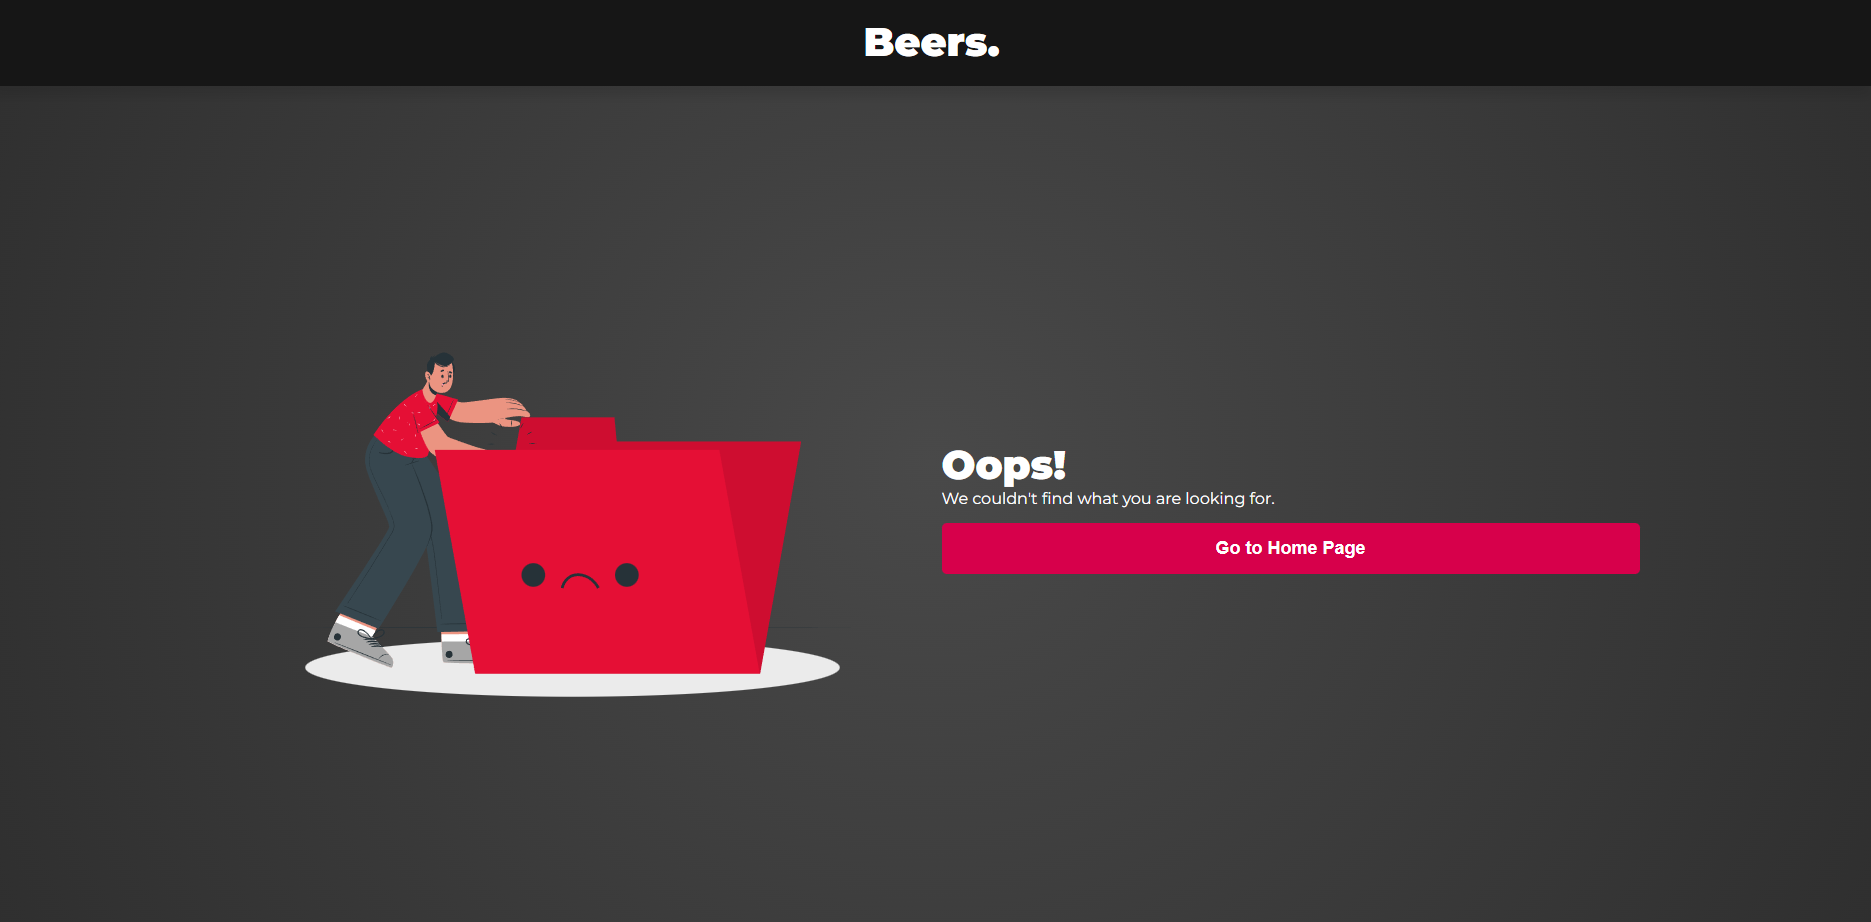
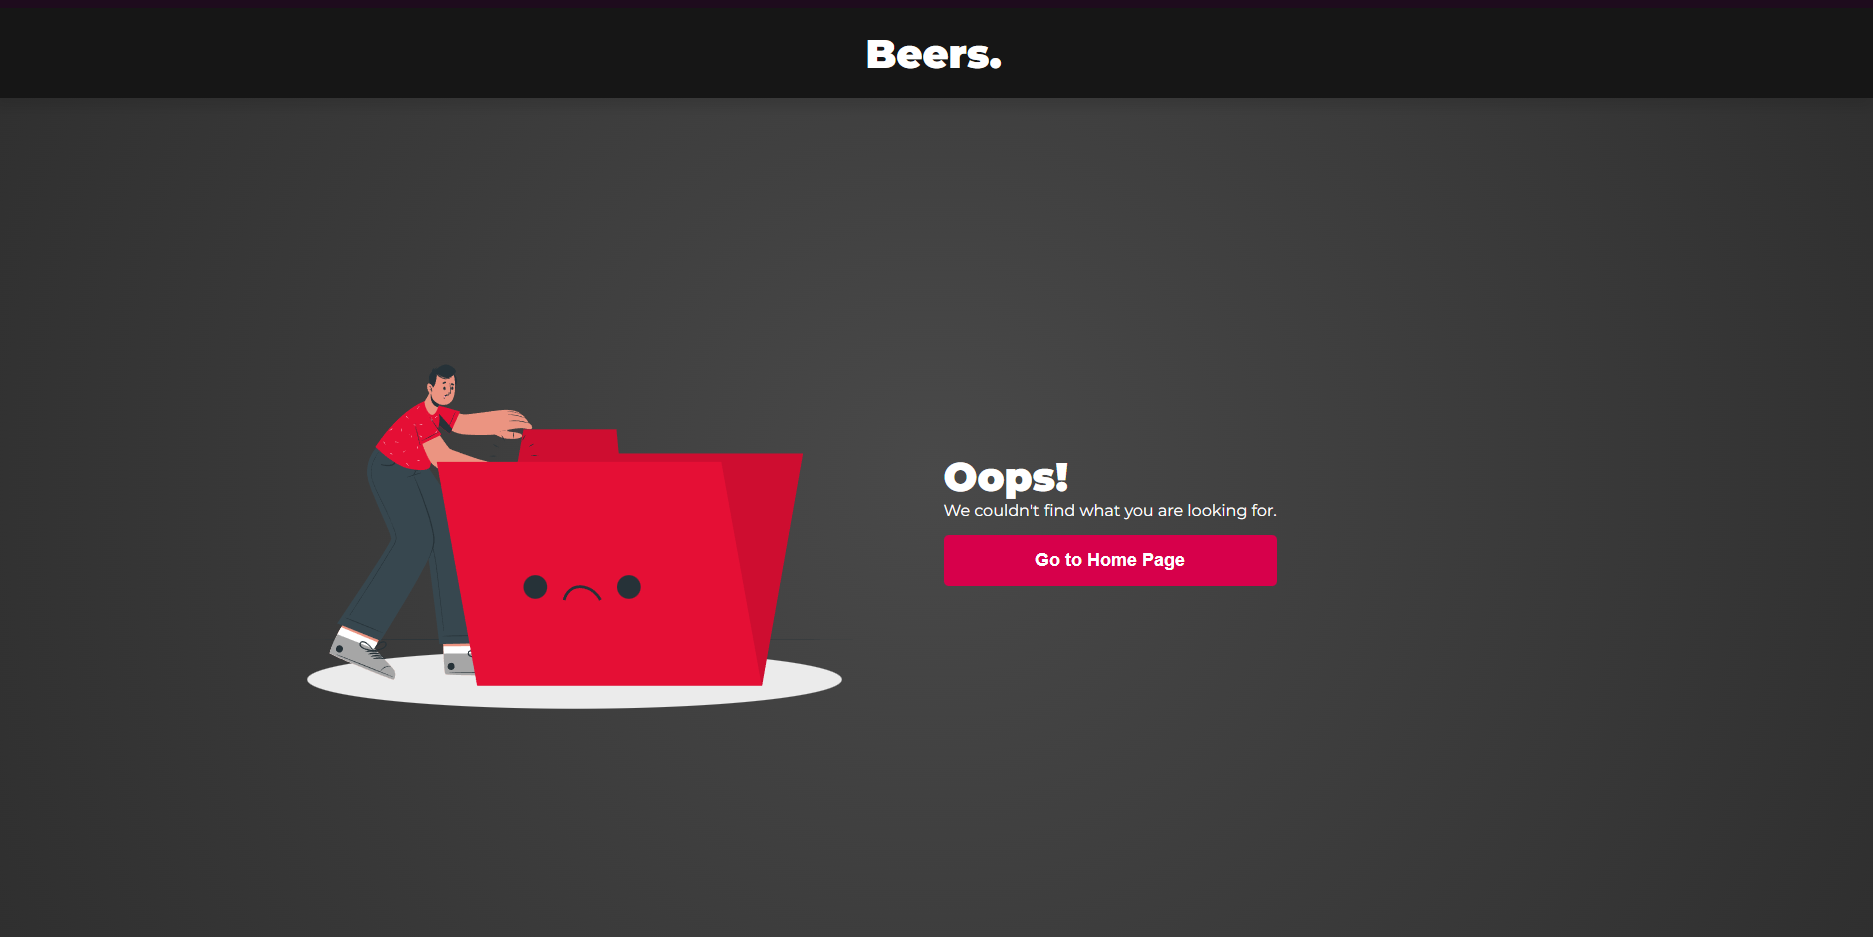
EX-16: Updated error message buttons to be more consistent

diff --git a/src/components/error-message/ErrorMessage.scss b/src/components/error-message/ErrorMessage.scss
@@ -9,6 +9,7 @@
   grid-template-columns: 1fr 1fr;
 
   @media (max-width: $lg-breakpoint) {
+    justify-items: center;
     grid-template-columns: 1fr;
   }
 
@@ -21,26 +22,31 @@
     }
   }
 
-  .error-text {
-    color: $secondary-text-color;
+  .error-message-content {
+    display: flex;
+    flex-direction: column;
+    max-width: fit-content;
 
-    &.error-header {
-      font-weight: 900;
-      font-size: $font-xxl;
+    .error-text {
+      color: $secondary-text-color;
+
+      &.error-header {
+        font-weight: 900;
+        font-size: $font-xxl;
+      }
     }
-  }
 
-  .action-button {
-    width: 100%;
-    margin-top: $spacing-m;
-    background-color: $accent-color;
-    color: $secondary-text-color;
-    font-size: $font-l;
-    font-weight: bold;
-    transition: background-color 0.2s;
+    .action-button {
+      margin-top: $spacing-m;
+      background-color: $accent-color;
+      color: $secondary-text-color;
+      font-size: $font-l;
+      font-weight: bold;
+      transition: background-color 0.2s;
 
-    &:hover {
-      background-color: $accent-color-dark;
+      &:hover {
+        background-color: $accent-color-dark;
+      }
     }
   }
 }

diff --git a/src/components/error-message/ErrorMessage.tsx b/src/components/error-message/ErrorMessage.tsx
@@ -22,7 +22,7 @@ const ErrorMessage = ({
       <div className="error-image-container">
         <img className="error-image" src={imageSrc} alt="Error message picture." />
       </div>
-      <div>
+      <div className="error-message-content">
         <div className="error-text error-header">{header}</div>
         <div className="error-text error-caption">{caption}</div>
         {buttonOnClick && buttonText && (

diff --git a/src/styles/constants.scss b/src/styles/constants.scss
@@ -11,6 +11,7 @@ $spacing-s: 10px;
 $spacing-m: 15px;
 $spacing-l: 20px;
 $spacing-xl: 30px;
+$spacing-xxl: 50px;
 
 $primary-color: #2f2f2f;
 $primary-color-light: lighten($primary-color, 10%);

diff --git a/src/pages/beer-details/BeerDetailsPage.scss b/src/pages/beer-details/BeerDetailsPage.scss
@@ -1,6 +1,6 @@
 @import "src/styles/mixins";
 
 .beer-details-page-container {
-  @include page-container();
+  @include page-container;
   justify-content: center;
 }

diff --git a/src/pages/error/NotFoundPage.scss b/src/pages/error/NotFoundPage.scss
@@ -1,5 +1,5 @@
 @import "src/styles/mixins";
 
 .not-found-page-container {
-  @include page-container();
+  @include page-container;
 }
